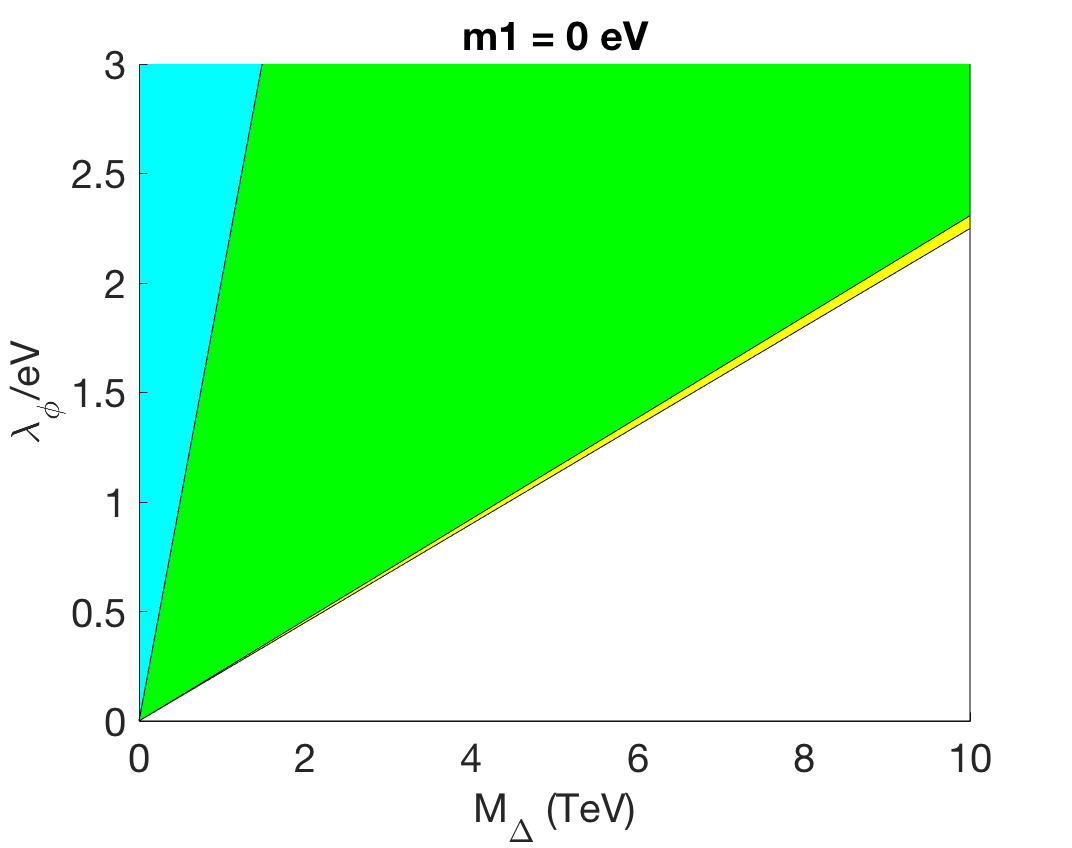
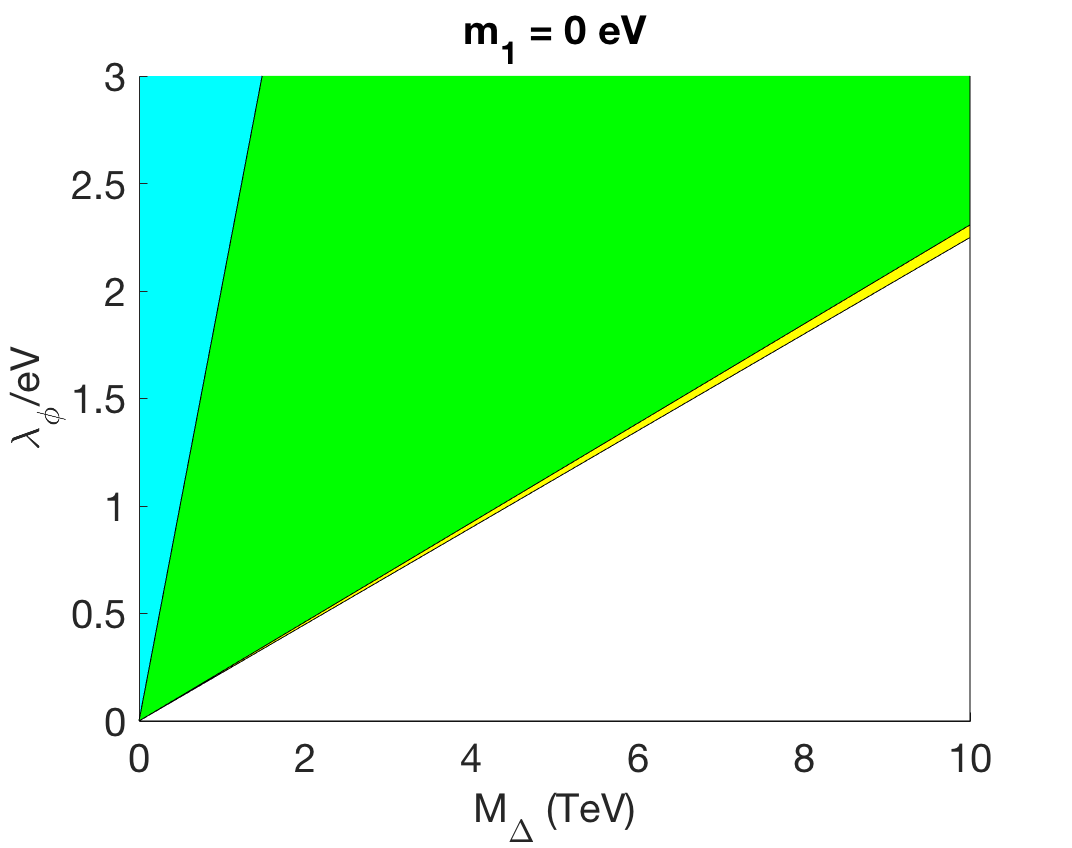
Hienosäätöä

diff --git a/Nonunit7.m b/Nonunit7.m
@@ -11,7 +11,7 @@ stages=15;          %
 y_upper = 14;       % Upper limit of y-axis
 y_lower = 10;       % Lower limit of y-axis
 fs = 20;            % Font size of title and axes
-nh = true;          % Normal hierarchy (false -> inverse hierarchy)
+nh = false;          % Normal hierarchy (false -> inverse hierarchy)
 s23Fix = false;     % If true, set best-fit value for s23
 deltaFix = false;   % likewise for deltaCP
 
@@ -64,7 +64,11 @@ if s23Fix
        s23range = sqrt(0.587);
    end
 else
-    s23range = sqrt(0.385:0.01:0.635);
+    if nh
+        s23range = sqrt(0.424:0.01:0.592);
+    else
+        s23range = sqrt(0.500:0.01:0.592);
+    end
 end
 if deltaFix
     deltarange = -pi/2;
@@ -95,11 +99,6 @@ text(0.01,15,'DUNE limit','FontSize',fs)
 hold off;
 
 % Find minimum values of all datasets
-% minValues = min(minValues,ee_dune);
-% minValues = min(minValues,emu_dune);
-% minValues = min(minValues,etau_dune);
-% minValues = min(minValues,mutau_dune);
-% minValuesDune = min(minValues,tautau_dune);
 [minIndexValues, minValuesDune] = FindMinIndex(ee_dune, emu_dune, etau_dune, mutau_dune, tautau_dune);
 
 %%%%%%%%%%%%%%%%%%%%%%%%%%%%%%%%%%%%%
@@ -126,12 +125,6 @@ hold off;
 
 minValuesNonunit = GetValuesByIndex(minIndexValues, ee_nonunit, emu_nonunit, etau_nonunit, mutau_nonunit, tautau_nonunit);
 
-% minValues = min(minValues,ee_nonunit);
-% minValues = min(minValues,emu_nonunit);
-% minValues = min(minValues,etau_nonunit);
-% minValues = min(minValues,mutau_nonunit);
-% minValuesNonunit = min(minValues,tautau_nonunit);
-
 %%%%%%%%%%%%%%%%%%%%%%%%%%%%%%%%%%%%%%
 % PLOT FOR CURRENT EXPERIMENTAL DATA %
 %%%%%%%%%%%%%%%%%%%%%%%%%%%%%%%%%%%%%%
@@ -153,11 +146,6 @@ text(0.01,15,'Current experimental limit','FontSize',fs)
 hold off;
 
 minValuesExp = GetValuesByIndex(minIndexValues, ee_exp, emu_exp, etau_exp, mutau_exp, tautau_exp);
-% minValues = min(minValues,ee_exp);
-% minValues = min(minValues,emu_exp);
-% minValues = min(minValues,etau_exp);
-% minValues = min(minValues,mutau_exp);
-% minValuesExp = min(minValues,tautau_exp);
 
 %%%%%%%%%%%%%%%%%%%
 % COMBINE RESULTS %
@@ -169,13 +157,13 @@ plot(m1range,minValuesExp,'Color',[0 0.5 0]);
 hold on;
 %area(m1range,log10(minValuesTot),'FaceColor', [0.5 0.5 0.5]); % Grey = [0.5 0.5 0.5]
 %area(m1range,log10(minValuesTot),'FaceColor', 'c');
-%area(m1range,log10(minValuesNonUnit),'FaceColor','r');
+%area(m1range,log10(minValuesNonunit),'FaceColor','r');
 plot(m1range,minValuesDune,'Color', 'b');
 plot(m1range,minValuesNonunit,'Color','r');
 %plot(m1range,emu_ee,'Color','k');
 Beautify(false,y_lower,y_upper,20);
-%text(0.01,15.0,'Excluded','FontSize',fs)
-%text(0.01,13.1,'DUNE coverage','FontSize',fs)
-%text(0.01,11,'Nonunitarity','FontSize',fs)
+text(0.01,15.0,'Excluded','FontSize',fs)
+text(0.01,13.1,'DUNE coverage','FontSize',fs)
+text(0.01,11,'Nonunitarity','FontSize',fs)
 legend('{\fontsize{15}Experimental limit}', '{\fontsize{15}DUNE coverage}','{\fontsize{15}Non-unitary limit}','Location','NorthEast');
-%hold off;
+hold off;

diff --git a/LambdaPhiLimit2.m b/LambdaPhiLimit2.m
@@ -1,12 +1,15 @@
 % INITIALIZATION
 clear;
+CMS = load('CMSvalues.mat');
+CMS = CMS.values;
 logscale = false;
 nh=false; m1=0; fs = 20; k = 0;
-mDelta = 0.75e12;
+%mDelta = 0.75e12; % 750 GeV
+mDelta = 2.0e12; % 2 TeV
 m1range = 0:0.1:0.2;
 
 % Linear scale
-lambdaRange = 0.01:0.001:1.1;
+lambdaRange = 0.01:0.001:3.0;
 values = zeros(length(m1range),length(lambdaRange));
 
 e = 1; mu = 2;
@@ -99,7 +102,7 @@ plot(lambdaRange, values(1,:),'-k','LineWidth',2);
 hold on;
 plot(lambdaRange, values(2,:),'--k','LineWidth',2);
 plot(lambdaRange, values(3,:),':k','LineWidth',2);
-plot(lambdaRange, 0.823*ones(1,length(lambdaRange)),'-.k','LineWidth',1);
+plot(lambdaRange, 0.095*ones(1,length(lambdaRange)),'-.k','LineWidth',1);
 
 set(gca,'FontSize',fs);
 %ylim([-1 1]); % log-eps
@@ -142,9 +145,10 @@ h=fill(X,Y,'g');
 set(h,'facealpha',.2)
 text(1.2*xm,3.2,'Excluded','FontSize',fs)
 text(1.2*xm,2.0,'DUNE','FontSize',fs)
-text(2.3*xm,0.823+0.15,'Perturbative limit','FontSize',fs);
+text(2.9*xm,0.095+0.15,'$Y=\sqrt{4\pi}$','Interpreter','latex','FontSize',fs);
 
 % CMS Exclusion
-area(lambdaRange,[values(1,1) values(1,:)],'FaceColor',[0.7 0.7 0.7]); % Grey fill
-cmstext = text(0.08*xm,0.12*(yl(1)+yl(2)),'CMS','FontSize',fs,'Color','w');
-set(cmstext,'Rotation',-45);
+%area(lambdaRange,[values(1,1) values(1,:)],'FaceColor',[0.7 0.7 0.7]); % Grey fill
+area([0.01 0.01:0.001:1.1],[CMS(1,1) CMS(1,:)],'FaceColor',[0.7 0.7 0.7]); % Grey fill
+%cmstext = text(0.08*xm,0.12*(yl(1)+yl(2)),'CMS','FontSize',fs,'Color','w');
+%set(cmstext,'Rotation',-45);

diff --git a/Piirto5.m b/Piirto5.m
@@ -2,12 +2,18 @@ clear;
 fs = 20;
 emuee_nh = load('Data/emuee_nh.mat');
 emuee_ih = load('Data/emuee_ih.mat');
-dune_nh = load('Data/NH_data.mat');
-dune_ih = load('Data/IH_data.mat');
-exp_nh = load('Data/NH_data.mat');
-exp_ih = load('Data/IH_data.mat');
-nonunit_nh = load('Data/NH_data.mat');
-nonunit_ih = load('Data/IH_data.mat');
+dune_nh = load('Data/data90CL_nh.mat');
+dune_ih = load('Data/data90CL_ih.mat');
+exp_nh = load('Data/data90CL_nh.mat');
+exp_ih = load('Data/data90CL_ih.mat');
+nonunit_nh = load('Data/data90CL_nh.mat');
+nonunit_ih = load('Data/data90CL_ih.mat');
+% dune_nh = load('Data/NH_data.mat');
+% dune_ih = load('Data/IH_data.mat');
+% exp_nh = load('Data/NH_data.mat');
+% exp_ih = load('Data/IH_data.mat');
+% nonunit_nh = load('Data/NH_data.mat');
+% nonunit_ih = load('Data/IH_data.mat');
 m = 0.0:0.002:0.20; % Lightest neutrino mass range
 cflv_nh = emuee_nh.emu_ee;
 cflv_ih = emuee_ih.emu_ee;

diff --git a/Nonunit6.m b/Nonunit6.m
@@ -94,8 +94,8 @@ fprintf('%d/%d (%.2f seconds elapsed)\n',counter, stages, cputime-t); counter = 
 mutau_dune = RajatJaPlotti(mu,tau,m1range,s23range,deltarange,eps,nh);
 fprintf('%d/%d (%.2f seconds elapsed)\n',counter, stages, cputime-t); counter = counter+1;
 % MUST CHANGE LIMITS FOR EPS
-%tautau_dune = RajatJaPlotti(tau,tau,m1range,s23range,deltarange,eps,nh);
-%fprintf('%d/%d (%.2f seconds elapsed)\n',counter, stages, cputime-t); counter = counter+1;
+tautau_dune = RajatJaPlotti(tau,tau,m1range,s23range,deltarange,eps,nh);
+fprintf('%d/%d (%.2f seconds elapsed)\n',counter, stages, cputime-t); counter = counter+1;
 
 % Beautifying the plots (showLegend, yMin, yMax, fontSize)
 Beautify(true,y_lower,y_upper,fs);

diff --git a/MdeltaLambdaPhi2.m b/MdeltaLambdaPhi2.m
@@ -24,7 +24,7 @@ tau = 3;
 % SET PARAMETERS %
 %%%%%%%%%%%%%%%%%%
 mDeltaRange = (0:100:10000)*10^9;
-m1 = 0.2; % Lightest neutrino mass
+m1 = 0.20; % Lightest neutrino mass
 
 % Below in all cases
 % eps_ee_max is actually (eps_ee - eps_mumu)_max and same for
@@ -149,7 +149,7 @@ xlim([0 10]);
 ylim([0 3]);
 xlabel('M_{\Delta} (TeV)','FontSize',fs);
 ylabel('\lambda_{\phi}/eV','FontSize',fs);
-title(['m1 = ' num2str(m1) ' eV'],'FontSize',fs);
+title(['m_1 = ' num2str(m1) ' eV'],'FontSize',fs);
 
 %legend('{\fontsize{15}Experimental limit}', '{\fontsize{15}DUNE coverage}','{\fontsize{15}Non-unitary limit}','Location','NorthEast');
 hold off;
